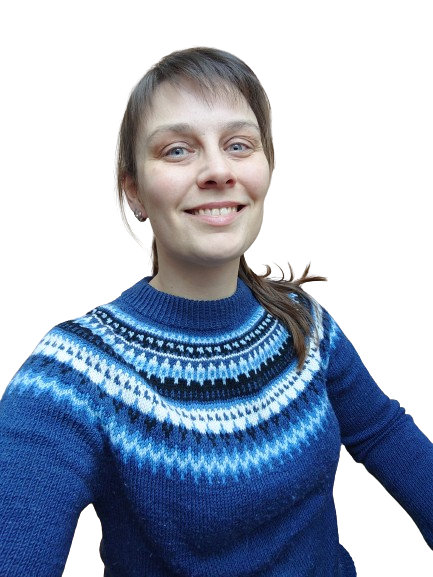
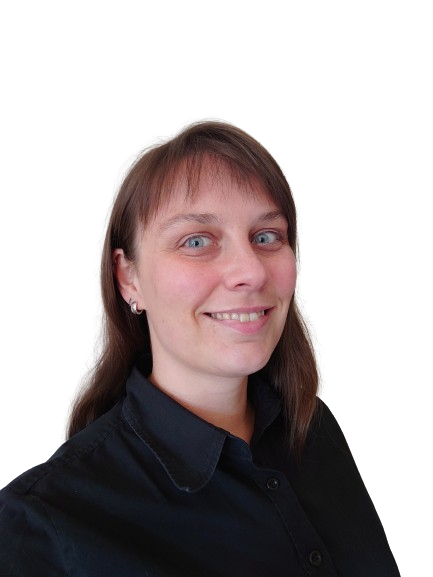
feat: about section

diff --git a/frontend_react/src/container/About/About.jsx b/frontend_react/src/container/About/About.jsx
@@ -1,8 +1,39 @@
-import React from 'react'
+import { useState, useEffect } from 'react';
+import { motion } from 'framer-motion';
+import { images } from '../../constants';
+import './About.scss';
 
 const About = () => {
+  const abouts = [
+    { title: 'Web Developer', description: 'I am good web developer', imgUrl: images.about01 },
+    { title: 'Backend Developer', description: 'I am good backend developer', imgUrl: images.about02 },
+    { title: 'Frontend Developer', description: 'I am good frontend developer', imgUrl: images.about03 },
+    { title: 'Frontend Developer', description: 'I am good frontend developer', imgUrl: images.about04 },
+  ];
+
   return (
-    <div>About</div>
+    <section id="about" className="app__about app__flex">
+      <h2 className="head-text">
+        <span>good design </span><br />
+        means
+        <span> good business</span>
+      </h2>
+      <div className="app__profiles">
+        {abouts.map((about, index) => (
+          <motion.div
+            whileInView={{ opacity: 1 }}
+            whileHover={{ scale: 1.1 }}
+            transition={{ duration: 0.5, type: 'tween' }}
+            className="app__profile-item"
+            key={about.title + index}
+          >
+            <img src={about.imgUrl} alt={about.title} />
+            <h2 className="bold-text" style={{ marginTop: 20 }} >{about.title}</h2>
+            <p className="p-text">{about.description}</p>
+          </motion.div>
+        ))}
+      </div>
+    </section>
   )
 }
 

diff --git a/frontend_react/src/container/About/About.scss b/frontend_react/src/container/About/About.scss
@@ -1,0 +1,36 @@
+.app__about {
+    flex: 1;
+    width: 100%;
+    flex-direction: column;
+}
+
+.app__profiles {
+    display: flex;
+    justify-content: center;
+    align-items: flex-start;
+    flex-wrap: wrap;
+    margin-top: 2rem;
+}
+
+.app__profile-item {
+    width: 190px;
+    display: flex;
+    justify-content: flex-start;
+    align-items: flex-start;
+    flex-direction: column;
+    margin: 2rem;
+    img {
+        width: 100%;
+        height: 170px;
+        border-radius: 15px;
+        object-fit: cover;
+    }
+
+    @media (min-width: 2000px) {
+        width: 370px;
+        margin: 2rem 4rem;
+        img {
+            height: 320px;
+        }
+    }
+}
